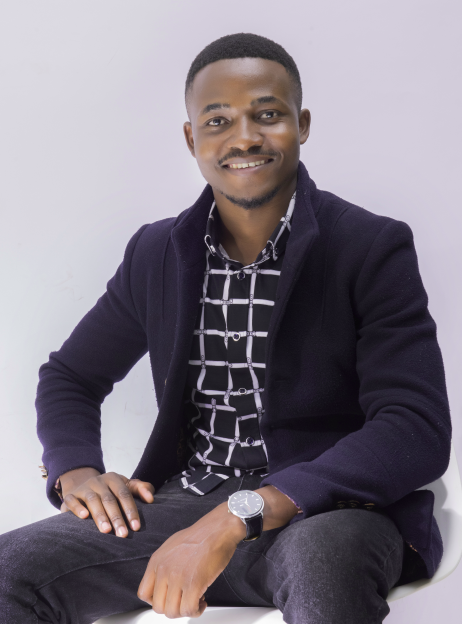
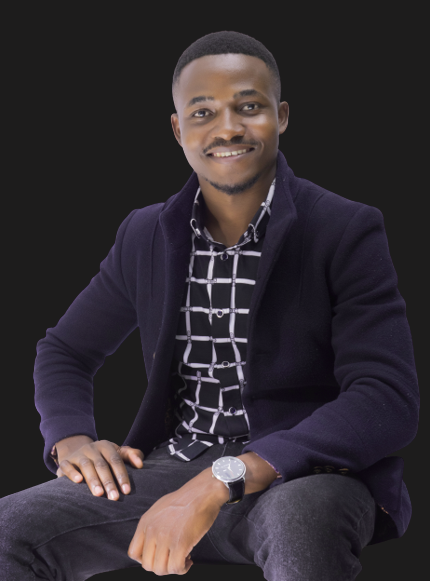
change and edit the images

diff --git a/index.html b/index.html
@@ -39,13 +39,13 @@
       <!-- header section -->
       <section class="header" id="header">
         <div class="brian">
-          <h1>BRIAN <br> WANGILA</h1>
+          <h1>BRIAN <br> <span>WANGILA</span></h1>
         </div>
         <div class="image">
-          <img src="./assets/Images/me.png" alt="">
+          <img src="./assets/Images/me3.jpg" alt="">
         </div>
-        <div class="brian">
-          <h1>FULLSTACK <br> DEVELOPER</h1>
+        <div class="brian2">
+          <h1>FULL<span>STACK</span> <br> <span>DEV</span>ELOPER</h1>
         </div>
       </section>
     </section>
@@ -57,7 +57,7 @@
 
       <!-- left side -->
       <div class="left">
-        <div class="cat">
+        <div class="cat cat1">
           <i class="fa-solid fa-spider-web"></i>
           <h4>Web Development</h4>
           <p>Lorem ipsum dolor sit amet</p>
@@ -127,14 +127,16 @@
     <section class="quotes">
       <h2>My Say!</h2>
       <div class="quotesFamous">
-        <img src="./assets/Images/me.png" alt="Brian">
+        <img src="./assets/Images/me2.png" alt="Brian">
         <div class="quote">
           <i class="fa-solid fa-quote-right"></i>
           <p>Lorem ipsum dolor sit amet consectetur adipisicing elit. 
             Totam tempora quam nihil, provident doloremque adipisci 
             sint tempore neque harum accusamus, amet maxime suscipit</p>
-            <p><span>Brian Wanjala</span></p>
-            <p>Founder of <span>Ravvytek Solutions</span></p>
+            <div class="name">
+              <p><span>Brian Wanjala</span> <br>
+              Founder of <span>Ravvytek Solutions</span></p>
+            </div>
         </div>
       </div>
     </section>

diff --git a/assets/css/styles.css b/assets/css/styles.css
@@ -1,6 +1,7 @@
 * {
   margin: 0;
-  padding: 0; 
+  padding: 0;
+  box-sizing: border-box; 
 }
 body{
   /* background-color: #383535; */
@@ -91,8 +92,29 @@ nav {
   align-items: center;
 }
 
+.header .brian {
+  position: absolute;
+  margin-top: -130px;
+  padding-right: 38vw;
+  font-size: 35px;
+  font-weight: 900;
+}
+
+.header .brian2 {
+  position: absolute;
+  padding-left: 40vw;
+  font-size: 30px;
+}
+
+.header .brian2 span, .brian span {
+  color: #1c1cf1;
+  font-size: 35px;
+}
+
 .header img {
   height: 60vh;
+  width: 300px;
+  border-radius: 15px;
 }
 
 .prof{
@@ -116,6 +138,10 @@ nav {
   padding: 5px;
   padding-top:10px ;
   width: 35vw;
+}
+
+.left .cat1 {
+  
 }
 
 .prof >.right {
@@ -211,8 +237,11 @@ nav {
   padding: 20px;
 }
 
-.quote p {
-  margin-bottom: 10px;
+.quote .name {
+  display: flex;
+  flex-direction: column;
+  padding-top: 50px;
+  align-items: flex-end;
 
 }
 
